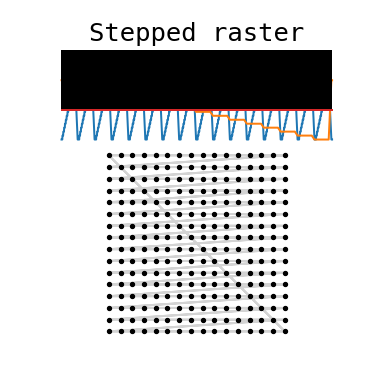
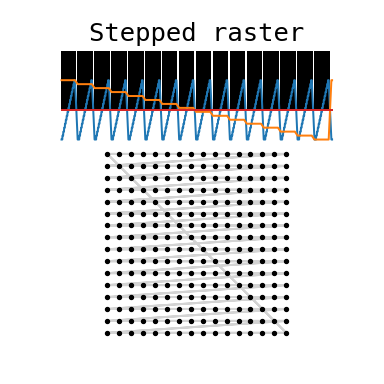
v2 raster workng

diff --git a/scanpatterns/patterns.py b/scanpatterns/patterns.py
@@ -454,7 +454,7 @@ class RasterScanPattern(LineScanPattern):
         self.bline_repeat = 0
         self.trigger_blines = 0
         self.true_exposure_fraction = 0
-        self._image_mask = np.array([]).astype(np.bool)
+        self._image_mask = np.array([]).astype(bool)
 
         if len(args) > 0:
             self.generate(*args, **kwargs)
@@ -463,14 +463,6 @@ class RasterScanPattern(LineScanPattern):
     def dimensions(self) -> (int, int):
         """Returns (number of a-lines, number of b-lines) excluding repeats."""
         return self.alines, self.blines
-
-    @property
-    def points_in_image(self) -> int:
-        """Returns total number of A-line exposures, including repeats."""
-        if any([None is value for value in [self.alines, self.aline_repeat, self.bline_repeat]]):
-            return 0
-        else:
-            return int(self.alines * self.aline_repeat * self.blines * self.bline_repeat)
 
     @property
     def image_mask(self) -> np.ndarray:
@@ -526,15 +518,14 @@ class RasterScanPattern(LineScanPattern):
 
         self.aline_repeat = int(aline_repeat)
         self.bline_repeat = int(bline_repeat)
-
+        
+        self._points_in_image = self.alines * self.aline_repeat * self.blines * self.bline_repeat
+        
         self.fast_axis_step = fast_axis_step
         self.slow_axis_step = slow_axis_step
 
         if aline_repeat < 2:
             self.aline_repeat = 1
-        else:
-            # A-line repeat must use stepped fast axis
-            self.fast_axis_step = True
 
         if bline_repeat < 2:
             self.bline_repeat = 1
@@ -572,11 +563,9 @@ class RasterScanPattern(LineScanPattern):
         self.max_trigger_rate = max_trigger_rate
         self._sample_rate = self.max_trigger_rate * period_samples
 
-        # print('For max trigger rate of', max_trigger_rate, 'DAC output must be', self._sample_rate)
-
+        # Round these to the trigger period
         self.samples_settle = period_samples * round(samples_settle / period_samples)
         self.samples_step = period_samples * round(samples_step / period_samples)
-        # print('Samples settle and step lengths:', self.samples_settle, self.samples_step)
 
         if self.fast_axis_step:  # If fast axis is stepped, trigger includes a settling time and step time
             single_position_trig = np.concatenate([np.zeros(self.samples_settle),
@@ -584,8 +573,6 @@ class RasterScanPattern(LineScanPattern):
                                                 np.zeros(self.samples_step)])
         else:
             single_position_trig = single_aline_trig
-        
-        # print('Single A-line trigger is', len(single_position_trig), 'samples in length')
 
         aline_trigs = np.concatenate([np.zeros(period_samples), np.tile(single_position_trig, self.alines)])  # Each line needs this many exposures
 
@@ -594,7 +581,6 @@ class RasterScanPattern(LineScanPattern):
             # Exposures are padded such that they comprise exposure_fraction of the sweep
             pad_size = period_samples * round(int((len(aline_trigs) * (1 - self.exposure_fraction)) / 2) / period_samples)
             bline_pad = np.zeros(pad_size)
-            # print('B-line pad is', len(bline_pad), 'samples long')
             self.true_exposure_fraction = 1 - (2 * len(bline_pad)) / len(aline_trigs)
             bline_exp = np.concatenate([bline_pad, aline_trigs, bline_pad])
             bline_start_offset = len(bline_pad) + period_samples
@@ -605,7 +591,6 @@ class RasterScanPattern(LineScanPattern):
         # Flyback duty is the percentage of the imaging sweep to spend on flyback
         self.flyback_duty = flyback_duty
         flyback_size = period_samples * round(int(len(bline_exp) * self.flyback_duty) / period_samples)
-        # print('Flyback size is', flyback_size, 'samples long')
         flyback_pad = np.zeros(flyback_size)
         if not self.bidirectional: # No flyback if the scan is bidirectional            
             bline_trig = np.concatenate([bline_exp, flyback_pad])
@@ -614,8 +599,6 @@ class RasterScanPattern(LineScanPattern):
 
         # Apply B-line repeat
         bline_trig = np.tile(bline_trig, self.bline_repeat)
-
-        # print('B-line trig matches running trigger rate:', len(bline_trig) % period_samples == 0, 'Length', len(bline_trig))
 
         if not self.fast_axis_step:
 
@@ -636,9 +619,6 @@ class RasterScanPattern(LineScanPattern):
                 fast_axis_scan = np.append(fast_axis_scan, np.linspace(positions[i], positions[i + 1], self.samples_step + 2)[1:-1])  # Transit to next
             fast_axis_scan = np.append(fast_axis_scan, positions[-1] * np.ones(len(single_position_trig)))  # Scan final spot
             fast_axis_flyback = np.linspace(positions[-1], positions[0], len(flyback_pad) + 2)[1:-1]
-
-        # print('fast_axis_scan', len(fast_axis_scan))
-        # print('fast_axis_flyback', len(fast_axis_flyback))
 
         # Apply B-line repeat
         if not self.bidirectional:
@@ -732,16 +712,17 @@ class RasterScanPattern(LineScanPattern):
 
         self._x, self._y = _rotfunc(self._x, self._y, rotation_rad)
         
-        self._positions = np.empty([self.points_in_image, 2]).astype(np.float64)
-        f = 0
+        pos = []
         # Build mask array that is high for triggers which form the image
         for i in range(points_in_scan):
             for j in range(period_samples):
                 if line_trig[i * period_samples + j] > 0:
                     mask[i] = 1
-                    self._positions[f, :] = [self._x[i * period_samples + j], self._y[i * period_samples + j]]
-                    f += 1
+                    pos.append([self._x[i * period_samples + j], self._y[i * period_samples + j]])
+                    for k in range(self.aline_repeat - 1):
+                        pos.append([self._x[i * period_samples + j + period_samples * k], self._y[i * period_samples + j + period_samples * k]])
                     break
+        self._positions = np.array(pos)
 
         self._points_in_scan = points_in_scan
         self._image_mask = mask
@@ -755,18 +736,21 @@ class RasterScanPattern(LineScanPattern):
 if __name__ == '__main__':
     
     DPI = 96
+    FOLDER = 'img/'
     
+    import os
     import matplotlib
     import matplotlib.pyplot as plt
 
     print('Generating demo figures...')
-
+    
     matplotlib.rcParams.update({'font.size': 16, 'font.family': 'monospace'})
     
     patterns = [
         RasterScanPattern(16, 16, 76000, samples_on=1, samples_off=10),
         RasterScanPattern(16, 16, 76000, samples_on=1, samples_off=10, fast_axis_step=True, slow_axis_step=True),
         RasterScanPattern(16, 16, 76000, samples_on=1, samples_off=10, bline_repeat=2),
+        RasterScanPattern(16, 16, 76000, samples_on=1, samples_off=10, aline_repeat=2),
         RasterScanPattern(16, 16, 76000, samples_on=1, samples_off=10, fov=[1.5, 4.5], fast_axis_step=True, slow_axis_step=True),
         RasterScanPattern(16, 16, 76000, samples_on=1, samples_off=10, fast_axis_step=True, slow_axis_step=True, rotation_rad=np.pi/4),
         RasterScanPattern(15, 15, 76000, samples_on=1, samples_off=10, bidirectional=True, slow_axis_step=True),
@@ -782,6 +766,7 @@ if __name__ == '__main__':
         'Classic raster',
         'Stepped raster',
         'B-line repeated raster',
+        'A-line repeated raster',
         'Rectangular raster',
         'Rotated raster',
         'Bidirectional raster',
@@ -796,7 +781,8 @@ if __name__ == '__main__':
     fnames = [
         'raster.png',
         'rasterstep.png',
-        'rasterrpt.png',
+        'rasterbrpt.png',
+        'rasterarpt.png',
         'rectraster.png',
         'rotraster.png',
         'biraster.png',
@@ -815,26 +801,31 @@ if __name__ == '__main__':
         gs = fig.add_gridspec(nrows=3, ncols=1, hspace=0.01)
         ax1 = fig.add_subplot(gs[0, 0])
         ax2 = fig.add_subplot(gs[1:, 0])
-    
+        
         ax1.set_title(title, pad=2)
         ax1.plot(pattern.x)
         ax1.plot(pattern.y)
-        ax1.stem(pattern.line_trigger, markerfmt='None', linefmt='black')
+        ax1.stem(np.repeat(pattern.image_mask.astype(int), int(len(pattern.x) / len(pattern.image_mask))),
+                 markerfmt='None', linefmt='black')
         ax1.set_frame_on(False)
         ax1.set_xticks([])
         ax1.set_yticks([])
     
         ax2.set_aspect('equal')
         ax2.plot(np.tile(pattern.x, 2), np.tile(pattern.y, 2), color='lightgrey')
-        # ax2.scatter(pattern.x[pattern.line_trigger.astype(bool)],
-        #             pattern.y[pattern.line_trigger.astype(bool)],
-        #             marker='.', color='black', zorder=10)
         ax2.scatter(pattern.positions[:, 0], pattern.positions[:, 1],
                     marker='.', color='black', zorder=10)
         ax2.set_frame_on(False)
         ax2.set_xticks([])
         ax2.set_yticks([])
     
-        fig.savefig('img/' + fname, dpi=DPI)
+        fname = FOLDER + '/' + fname
+        
+        try:
+            os.remove(fname)
+        except FileNotFoundError:
+            pass
+        
+        fig.savefig(fname, dpi=DPI)
     
         plt.close(i)
